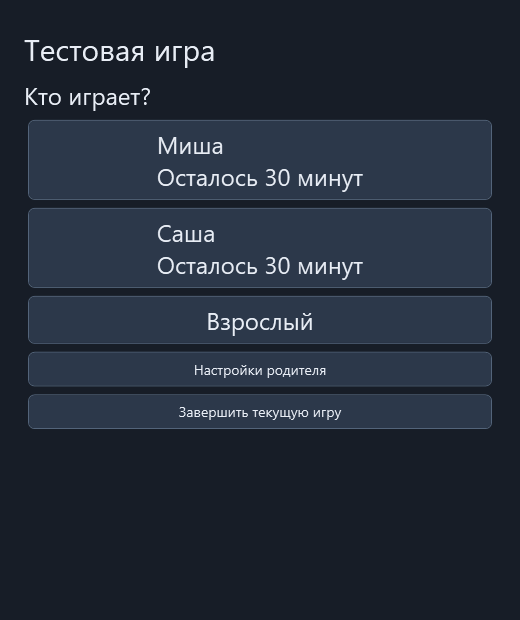
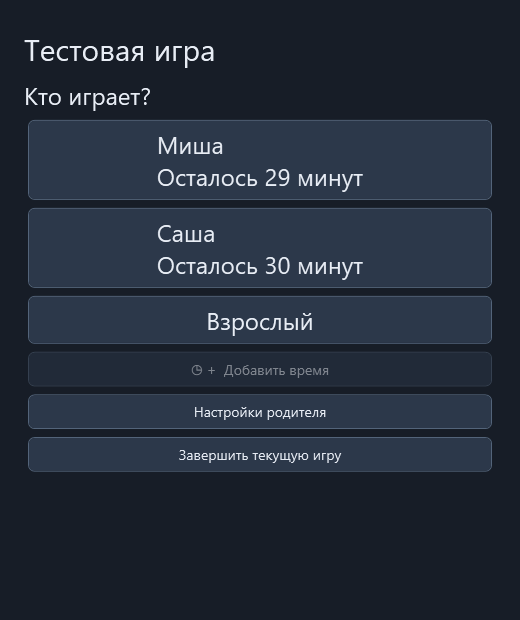
Release 1.0.3: add time during active game sessions

diff --git a/src/GameLimiter.Infrastructure/SessionCoordinator.cs b/src/GameLimiter.Infrastructure/SessionCoordinator.cs
@@ -11,6 +11,26 @@ public sealed class SessionCoordinator(Store store, IProcessLauncher launcher, L
     public event Action? Started;
     private bool stopRequested;
     private bool allowanceReduced;
+    private int adultExtraSeconds;
+    private bool adultTimed;
+    public long SessionId { get; private set; }
+    public long Remaining { get; private set; }
+    public SessionState State { get; private set; } = SessionState.Idle;
+    public bool CanAddTime => Active && !stopRequested && (ChildId is not null || adultTimed)
+        && State is SessionState.Running or SessionState.GraceCountdown;
+    public void AddTime(long expectedSession, int minutes)
+    {
+        if (!CanAddTime || SessionId != expectedSession) throw new InvalidOperationException("Эту сессию уже нельзя продлить. Возможно, игра завершилась или началось её закрытие.");
+        if (minutes is < 1 or > 1440) throw new ArgumentException("Введите от 1 до 1440 минут.");
+        if (ChildId is long child)
+        {
+            if (!store.Children().Any(c => c.Id == child && c.Enabled)) throw new InvalidOperationException("Ребёнок отключён или архивирован. Проверьте настройки.");
+            store.Adjust(child, DateOnly.FromDateTime(DateTime.Now), minutes * 60);
+        }
+        else adultExtraSeconds = checked(adultExtraSeconds + minutes * 60);
+        log.Write($"Time added session={SessionId}, player={ChildId?.ToString() ?? "Adult"}, minutes={minutes}");
+        UsageChanged?.Invoke();
+    }
     public void SettingsChanged(bool reduced) { allowanceReduced |= reduced; }
     public void Stop() => stopRequested = true;
 
@@ -43,6 +63,7 @@ public sealed class SessionCoordinator(Store store, IProcessLauncher launcher, L
         if (child is not null && !store.Children().Any(c => c.Id == child && c.Enabled)) throw new InvalidOperationException("Этот ребёнок отключён или архивирован.");
         if (child is not null && store.Allowance(child.Value, DateOnly.FromDateTime(DateTime.Now)).Remaining == 0) throw new InvalidOperationException("На сегодня время закончилось.");
         Active = true; ChildId = child; stopRequested = false; allowanceReduced = false;
+        State = SessionState.Starting; adultExtraSeconds = 0; adultTimed = adultSeconds is not null;
         IGameProcess? process = null; long session = 0; var elapsed = new Stopwatch(); var persisted = 0; var accounted = DateTime.Now; var reason = "Completed"; Exception? failure = null;
         void Flush(bool final = false)
         {
@@ -58,6 +79,7 @@ public sealed class SessionCoordinator(Store store, IProcessLauncher launcher, L
         {
             log.Write($"Selected player={(child?.ToString() ?? "Adult")}, game={game.Id}");
             session = store.Begin(child, game.Id, DateTime.Now, 15, adultTimed: adultSeconds is not null);
+            SessionId = session;
             process = await launcher.LaunchAsync(game, store.Settings.Discovery, CancellationToken.None);
             store.Attach(session, process); accounted = DateTime.Now; elapsed.Start(); log.Write($"Session start {session}");
             Started?.Invoke();
@@ -74,11 +96,13 @@ public sealed class SessionCoordinator(Store store, IProcessLauncher launcher, L
                     var todayPending = Math.Min(unpersisted, (long)(DateTime.Now - DateTime.Today).TotalSeconds);
                     remaining = Math.Max(0, allowance.Remaining - todayPending);
                 }
-                else if (adultSeconds is int duration) remaining = Math.Max(0, duration - (long)Math.Floor(elapsed.Elapsed.TotalSeconds));
+                else if (adultSeconds is int duration) remaining = Math.Max(0, (long)duration + adultExtraSeconds - (long)Math.Floor(elapsed.Elapsed.TotalSeconds));
                 var display = timer.Evaluate(remaining, elapsed.Elapsed.TotalSeconds, allowanceReduced, settings.AdjustmentGrace); allowanceReduced = false;
+                Remaining = remaining; State = timer.State;
                 Updated?.Invoke(display, timer.State, process.WindowHandle);
                 if (stopRequested || timer.State == SessionState.Closing)
                 {
+                    State = SessionState.Closing;
                     reason = stopRequested ? "Parent stop" : "Time expired"; log.Write($"Automatic/session close {session}: {reason}");
                     var close = process.CloseAsync(settings.CloseGrace, CancellationToken.None);
                     while (!close.IsCompleted) { await Task.WhenAny(close, Task.Delay(250)); if (elapsed.Elapsed.TotalSeconds - persisted >= settings.Checkpoint) Flush(); }
@@ -89,6 +113,7 @@ public sealed class SessionCoordinator(Store store, IProcessLauncher launcher, L
         }
         catch (Exception ex)
         {
+            State = SessionState.Failed;
             failure = ex; reason = "Failed"; log.Write($"Session/checkpoint error: {ex}");
             if (process is not null && !process.HasExited)
             {
@@ -101,7 +126,7 @@ public sealed class SessionCoordinator(Store store, IProcessLauncher launcher, L
             elapsed.Stop();
             try { if (session != 0) { Flush(true); if (process is null || process.HasExited) store.End(session, reason); log.Write($"Session end {session}, duration={store.Duration(session)}, {reason}"); } }
             catch (Exception ex) { failure = new AggregateException("Ошибка сохранения времени; оставлена запись для восстановления.", failure ?? ex, ex); log.Write($"Final checkpoint failure: {ex}"); }
-            process?.Dispose(); Active = false; ChildId = null; Updated?.Invoke(0, SessionState.Completed, 0); UsageChanged?.Invoke();
+            process?.Dispose(); Active = false; ChildId = null; State = SessionState.Completed; Updated?.Invoke(0, SessionState.Completed, 0); UsageChanged?.Invoke();
         }
         if (failure is not null) throw new InvalidOperationException("Сессия завершилась с ошибкой: " + failure.Message, failure);
     }

diff --git a/tests/GameLimiter.Core.Tests/SessionLifecycleTests.cs b/tests/GameLimiter.Core.Tests/SessionLifecycleTests.cs
@@ -7,6 +7,59 @@ namespace GameLimiter.Core.Tests;
 public sealed class SessionLifecycleTests : IDisposable
 {
     private readonly string folder = Path.Combine(Path.GetTempPath(), "GameLimiterLifecycle-" + Guid.NewGuid());
+    [Theory]
+    [InlineData(true)]
+    [InlineData(false)]
+    public async Task AddTimeExtendsCurrentSession(bool childSession)
+    {
+        var store = new Store(Path.Combine(folder, "test.db"));
+        var child = store.SaveChild(new(0, "Child", 1800));
+        var coordinator = new SessionCoordinator(store, new Launcher(new TestProcess()), new LocalLog(folder));
+        var added = false;
+        coordinator.Updated += (_, state, _) =>
+        {
+            if (state != SessionState.Running) return;
+            if (!added)
+            {
+                Assert.Throws<InvalidOperationException>(() => coordinator.AddTime(coordinator.SessionId + 1, 5));
+                Assert.Throws<ArgumentException>(() => coordinator.AddTime(coordinator.SessionId, 0));
+                Assert.Throws<ArgumentException>(() => coordinator.AddTime(coordinator.SessionId, 1441));
+                coordinator.AddTime(coordinator.SessionId, 5); added = true;
+            }
+            else { Assert.InRange(coordinator.Remaining, 2090, 2100); coordinator.Stop(); }
+        };
+        await coordinator.RunAsync(new("test", "Test", "unused.exe"), childSession ? child.Id : null, childSession ? null : 1800);
+        Assert.True(added);
+        Assert.Equal(childSession ? 300 : 0, store.Allowance(child.Id, DateOnly.FromDateTime(DateTime.Now)).Adjustment);
+        Assert.Equal(1800, store.Children()[0].BaseSeconds);
+        Assert.Throws<InvalidOperationException>(() => coordinator.AddTime(coordinator.SessionId, 5));
+    }
+    [Fact]
+    public async Task AddingTimeCancelsAdjustmentGrace()
+    {
+        var store = new Store(Path.Combine(folder, "test.db")); var child = store.SaveChild(new(0, "Child", 60));
+        var coordinator = new SessionCoordinator(store, new Launcher(new TestProcess()), new LocalLog(folder));
+        var step = 0;
+        coordinator.Updated += (_, state, _) =>
+        {
+            if (state == SessionState.Running && step == 0) { store.Adjust(child.Id, DateOnly.FromDateTime(DateTime.Now), -60); coordinator.SettingsChanged(true); step = 1; }
+            else if (state == SessionState.GraceCountdown && step == 1) { coordinator.AddTime(coordinator.SessionId, 5); step = 2; }
+            else if (state == SessionState.Running && step == 2) { step = 3; coordinator.Stop(); }
+        };
+        await coordinator.RunAsync(new("test", "Test", "unused.exe"), child.Id, null);
+        Assert.Equal(3, step);
+    }
+    [Fact]
+    public async Task UnlimitedAndClosingSessionsCannotBeExtended()
+    {
+        var store = new Store(Path.Combine(folder, "test.db"));
+        var coordinator = new SessionCoordinator(store, new Launcher(new TestProcess()), new LocalLog(folder));
+        coordinator.Updated += (_, state, _) => { if (state == SessionState.Running) { Assert.False(coordinator.CanAddTime); Assert.Throws<InvalidOperationException>(() => coordinator.AddTime(coordinator.SessionId, 5)); coordinator.Stop(); } };
+        await coordinator.RunAsync(new("test", "Test", "unused.exe"), null, null);
+        var closing = new SessionCoordinator(store, new Launcher(new TestProcess()), new LocalLog(folder));
+        closing.Updated += (_, state, _) => { if (state == SessionState.Closing) Assert.Throws<InvalidOperationException>(() => closing.AddTime(closing.SessionId, 5)); };
+        await closing.RunAsync(new("test", "Test", "unused.exe"), null, 0);
+    }
     [Fact]
     public async Task StartedIsRaisedAfterAttachmentAndReturnFollowsFinalPersistence()
     {

diff --git a/src/GameLimiter.App/SmokeTest.cs b/src/GameLimiter.App/SmokeTest.cs
@@ -41,6 +41,18 @@ internal static class SmokeTest
             }
             Render(new PinWindow(store, true), $"first-run{suffix}.png");
             Render(new MainWindow(store, coordinator, game), $"players{suffix}.png");
+            var previewProcess = new PreviewProcess();
+            var preview = new SessionCoordinator(store, new PreviewLauncher(previewProcess), new LocalLog(folder));
+            var run = preview.RunAsync(game, store.Children()[0].Id, null);
+            var addWindow = new AddTimeWindow(store, preview);
+            Render(addWindow, $"add-time{suffix}.png");
+            var before = store.Allowance(store.Children()[0].Id, DateOnly.FromDateTime(DateTime.Now)).Adjustment;
+            var quick = ((StackPanel)addWindow.Content).Children.OfType<WrapPanel>().Single();
+            quick.Children.OfType<Button>().First().RaiseEvent(new RoutedEventArgs(Button.ClickEvent));
+            if (store.Allowance(store.Children()[0].Id, DateOnly.FromDateTime(DateTime.Now)).Adjustment != before + 300)
+                throw new InvalidOperationException("Add time button did not persist allowance.");
+            preview.Stop(); await run;
+            store.Adjust(store.Children()[0].Id, DateOnly.FromDateTime(DateTime.Now), -300);
 
             // Exercise the real Settings theme button and verify the saved preference.
             var general = (StackPanel)((ScrollViewer)((TabItem)tabs.Items[4]).Content).Content;
@@ -74,5 +86,18 @@ internal static class SmokeTest
             bitmap.Render(background); bitmap.Render(content);
             var encoder = new PngBitmapEncoder(); encoder.Frames.Add(BitmapFrame.Create(bitmap)); using var output = File.Create(Path.Combine(folder, filename)); encoder.Save(output);
         }
+    }
+    private sealed class PreviewLauncher(PreviewProcess process) : IProcessLauncher
+    {
+        public Task<IGameProcess> LaunchAsync(Game game, int timeoutSeconds, CancellationToken cancellationToken) => Task.FromResult<IGameProcess>(process);
+    }
+    private sealed class PreviewProcess : IGameProcess
+    {
+        public int Id => 0;
+        public long StartUtcTicks => 0;
+        public nint WindowHandle => 0;
+        public bool HasExited { get; private set; }
+        public Task CloseAsync(int graceSeconds, CancellationToken cancellationToken) { HasExited = true; return Task.CompletedTask; }
+        public void Dispose() { }
     }
 }

diff --git a/src/GameLimiter.App/AddTimeWindow.cs b/src/GameLimiter.App/AddTimeWindow.cs
@@ -1,0 +1,35 @@
+using System.Windows;
+using System.Windows.Controls;
+using System.Windows.Threading;
+using GameLimiter.Infrastructure;
+
+namespace GameLimiter.App;
+
+internal sealed class AddTimeWindow : Window
+{
+    public AddTimeWindow(Store store, SessionCoordinator coordinator)
+    {
+        var session = coordinator.SessionId;
+        Title = "Добавить время"; Width = 460; SizeToContent = SizeToContent.Height; ResizeMode = ResizeMode.NoResize;
+        WindowStartupLocation = WindowStartupLocation.CenterOwner;
+        var panel = new StackPanel { Margin = new Thickness(24) }; Content = panel;
+        var name = coordinator.ChildId is long child ? store.Children().FirstOrDefault(c => c.Id == child)?.Name ?? "Ребёнок" : "Взрослый";
+        panel.Children.Add(Ui.Text(name, 26));
+        var remaining = Ui.Text("", 20); panel.Children.Add(remaining);
+        panel.Children.Add(Ui.Text(coordinator.ChildId is not null ? "Прибавка к сегодняшнему времени. Дневной лимит не меняется." : "Продление текущей взрослой сессии."));
+        var actions = new WrapPanel(); panel.Children.Add(actions);
+        void Add(int minutes) { coordinator.AddTime(session, minutes); Close(); }
+        foreach (var minutes in new[] { 5, 10, 30 }) actions.Children.Add(Ui.Button($"+{minutes} минут", () => Add(minutes)));
+        var custom = Ui.Field(panel, "Добавить минут (1–1440)", "15");
+        panel.Children.Add(Ui.Button("Добавить", () => Add(Ui.Number(custom, 1, 1440))));
+        var refresh = new DispatcherTimer { Interval = TimeSpan.FromMilliseconds(250) };
+        void Update()
+        {
+            var available = coordinator.CanAddTime && coordinator.SessionId == session;
+            remaining.Text = available ? $"Осталось {Ui.Time(coordinator.Remaining)}" : "Сессию уже нельзя продлить";
+            actions.IsEnabled = available; custom.IsEnabled = available;
+            ((Button)panel.Children[panel.Children.Count - 1]).IsEnabled = available;
+        }
+        refresh.Tick += (_, _) => Update(); Loaded += (_, _) => refresh.Start(); Closed += (_, _) => refresh.Stop(); Update();
+    }
+}

diff --git a/src/GameLimiter.App/MainWindow.cs b/src/GameLimiter.App/MainWindow.cs
@@ -20,6 +20,15 @@ public sealed class MainWindow : Window
         Title = "GameLimiter"; Width = 520; Height = 620; MinWidth = 420; MinHeight = 360; WindowStartupLocation = WindowStartupLocation.CenterScreen;
         var panel = new StackPanel { Margin = new Thickness(24) }; Content = new ScrollViewer { Content = panel, VerticalScrollBarVisibility = ScrollBarVisibility.Auto };
         panel.Children.Add(Ui.Text(game?.DisplayName ?? "GameLimiter", 30)); panel.Children.Add(status); panel.Children.Add(players);
+        var addTime = Ui.Button("◷ +  Добавить время", () =>
+        {
+            var session = coordinator.SessionId;
+            if (coordinator.CanAddTime && Authenticate() && coordinator.CanAddTime && coordinator.SessionId == session)
+                new AddTimeWindow(store, coordinator) { Owner = this }.ShowDialog();
+        });
+        addTime.IsEnabled = coordinator.CanAddTime;
+        panel.Children.Add(addTime);
+        coordinator.Updated += (_, _, _) => addTime.IsEnabled = coordinator.CanAddTime;
         panel.Children.Add(Ui.Button("Настройки родителя", () => { if (Authenticate()) new SettingsWindow(store, coordinator) { Owner = this }.ShowDialog(); }));
         panel.Children.Add(Ui.Button("Завершить текущую игру", () => { if (coordinator.Active && Authenticate()) coordinator.Stop(); }));
         coordinator.Updated += (remaining, state, handle) => { status.Text = state == SessionState.Completed ? "Игра завершена" : remaining == long.MaxValue ? "Взрослый · без лимита" : $"Осталось {Ui.Time(remaining)}"; overlay.Update(remaining, state, handle, store.Settings); };

diff --git a/src/GameLimiter.App/SettingsWindow.cs b/src/GameLimiter.App/SettingsWindow.cs
@@ -96,7 +96,7 @@ public sealed class SettingsWindow : Window
         diagnostics.Children.Add(themeStatus);
         diagnostics.Children.Add(Ui.Text("Выбор сохраняется сразу и применяется ко всем окнам."));
         diagnostics.Children.Add(Ui.Text("Диагностика", 20));
-        diagnostics.Children.Add(Ui.Text("GameLimiter 1.0.2 · Windows x64\nБаза: " + Path.Combine(App.DataFolder, "gametime.db") + "\nЖурналы: " + Path.Combine(App.DataFolder, "logs")));
+        diagnostics.Children.Add(Ui.Text("GameLimiter 1.0.3 · Windows x64\nБаза: " + Path.Combine(App.DataFolder, "gametime.db") + "\nЖурналы: " + Path.Combine(App.DataFolder, "logs")));
         diagnostics.Children.Add(Ui.Button("Открыть папку данных", () => Process.Start(new ProcessStartInfo(App.DataFolder) { UseShellExecute = true })));
         diagnostics.Children.Add(Ui.Button("Открыть журналы", () => { var folder = Path.Combine(App.DataFolder, "logs"); Directory.CreateDirectory(folder); Process.Start(new ProcessStartInfo(folder) { UseShellExecute = true }); }));
         diagnostics.Children.Add(Ui.Text("Обычный запуск игры — через её ярлык. Во время игры окно GameLimiter можно свернуть; настройки доступны на панели задач. Изменения полей сохраняются кнопкой «Сохранить»."));

diff --git a/README.md b/README.md
@@ -6,9 +6,9 @@
 
 ## Установка и настройка
 
-Скачайте установщик `GameLimiter-1.0.2-win-x64-Setup.exe` из раздела **Releases**. Программа устанавливается для текущего пользователя, .NET уже включён. Перед обновлением завершите игру и закройте GameLimiter.
+Скачайте установщик `GameLimiter-1.0.3-win-x64-Setup.exe` из раздела **Releases**. Программа устанавливается для текущего пользователя, .NET уже включён. Перед обновлением завершите игру и закройте GameLimiter.
 
-Для запуска без установки распакуйте **весь** архив `GameLimiter-1.0.2-win-x64-Portable.zip` в постоянную папку и запустите `GameLimiter.exe`.
+Для запуска без установки распакуйте **весь** архив `GameLimiter-1.0.3-win-x64-Portable.zip` в постоянную папку и запустите `GameLimiter.exe`.
 
 1. При первом запуске создайте родительский PIN из 4–12 цифр.
 2. Откройте **Настройки родителя → Дети**, добавьте детей и задайте дневные лимиты в минутах.
@@ -19,6 +19,16 @@
 При успешном запуске игры окно GameLimiter автоматически сворачивается, а после завершения игры приложение закрывается само, сохранив использованное время. Настройки доступны по PIN через окно на панели задач. Завершить сессию можно закрытием игры или кнопкой **Завершить текущую игру** с PIN. Если автозакрытие отключено, перед запуском другого игрового ярлыка закройте оставшееся окно GameLimiter. Одновременно поддерживается одна сессия.
 
 На кнопке ребёнка показана понятная подпись: **«Осталось 35 минут»**. Для одной минуты используется «Осталась 1 минута», для неполной последней минуты — «Осталось меньше минуты».
+
+## Добавить время во время игры
+
+Переключитесь в GameLimiter через Alt+Tab или панель задач и нажмите **«◷ + Добавить время»**. Введите родительский PIN, затем выберите **+5, +10, +30 минут** или введите своё количество (1–1440) и нажмите **«Добавить»**. Окно закроется, новый остаток появится в основном окне на следующем обновлении таймера.
+
+Для ребёнка увеличивается только сегодняшняя поправка; базовый дневной лимит не меняется. Для взрослой сессии с таймером продлевается текущая игра. В безлимитной сессии кнопка недоступна. Если после прибавки снова осталось время, отсрочка из-за уменьшения лимита отменяется. После начала закрытия игры продлить сессию уже нельзя.
+
+![Добавление времени — тёмная тема](docs/images/add-time.png)
+
+![Добавление времени — светлая тема](docs/images/add-time-light.png)
 
 ## Настройки
 
